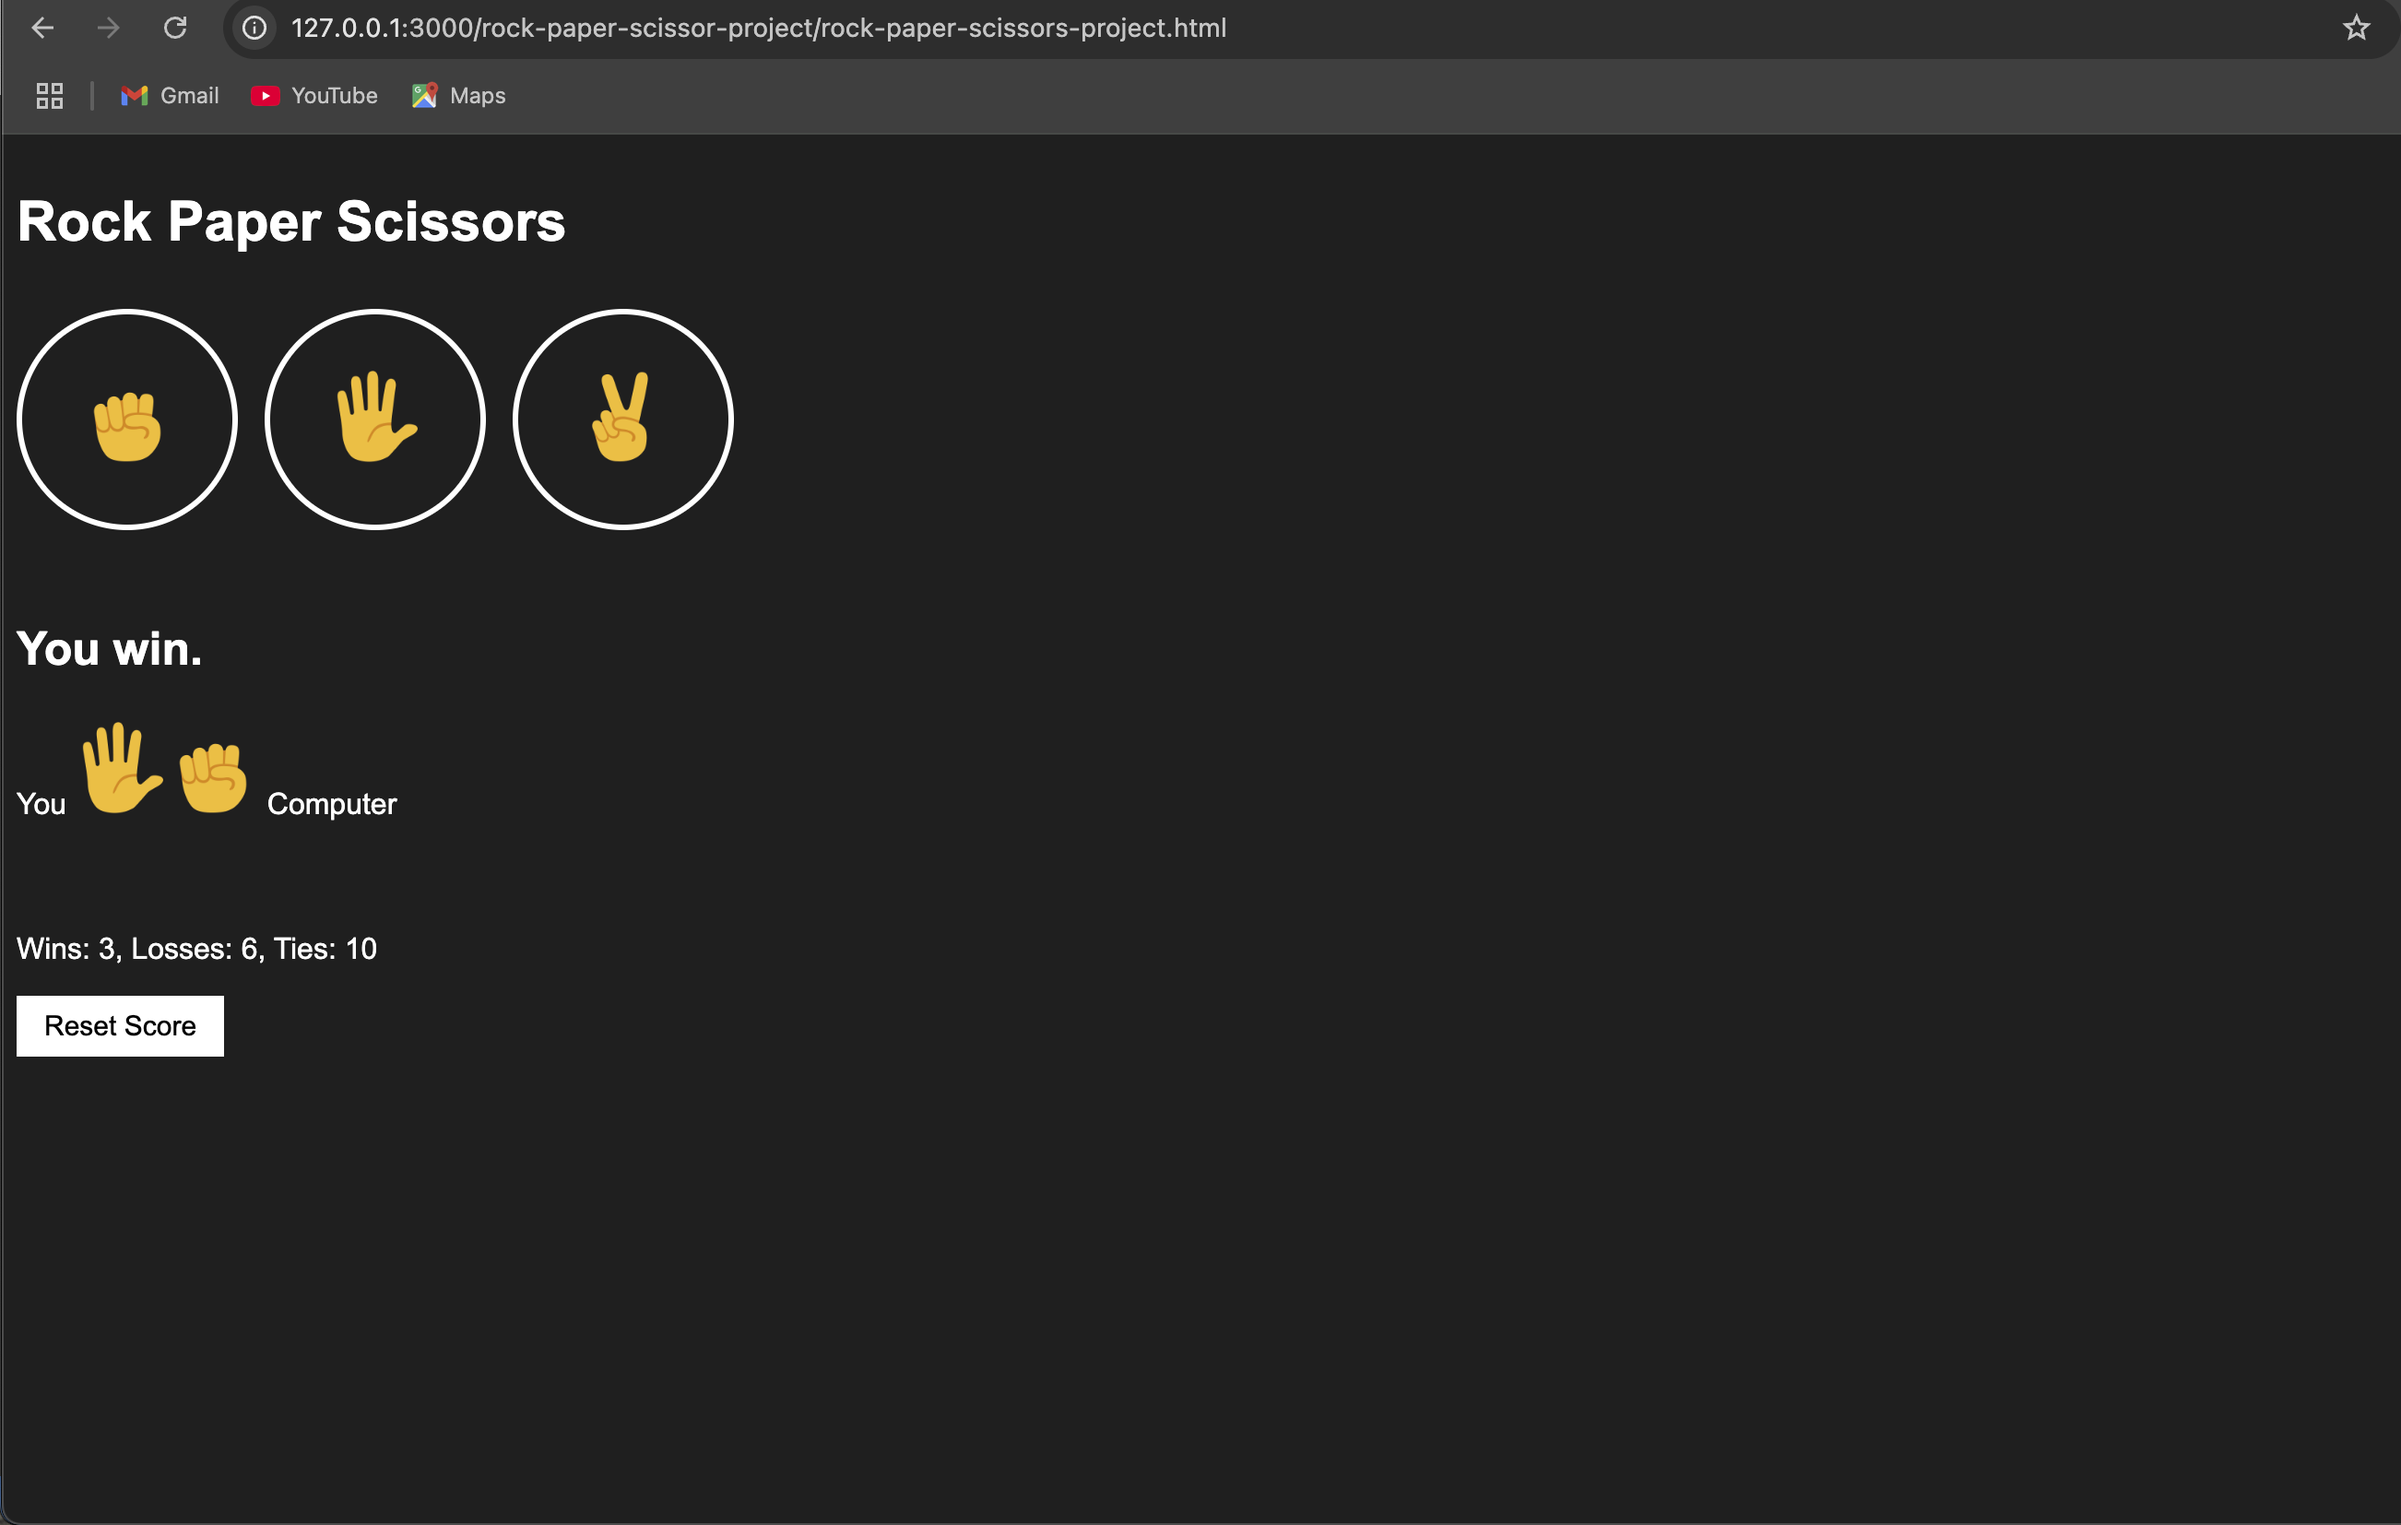
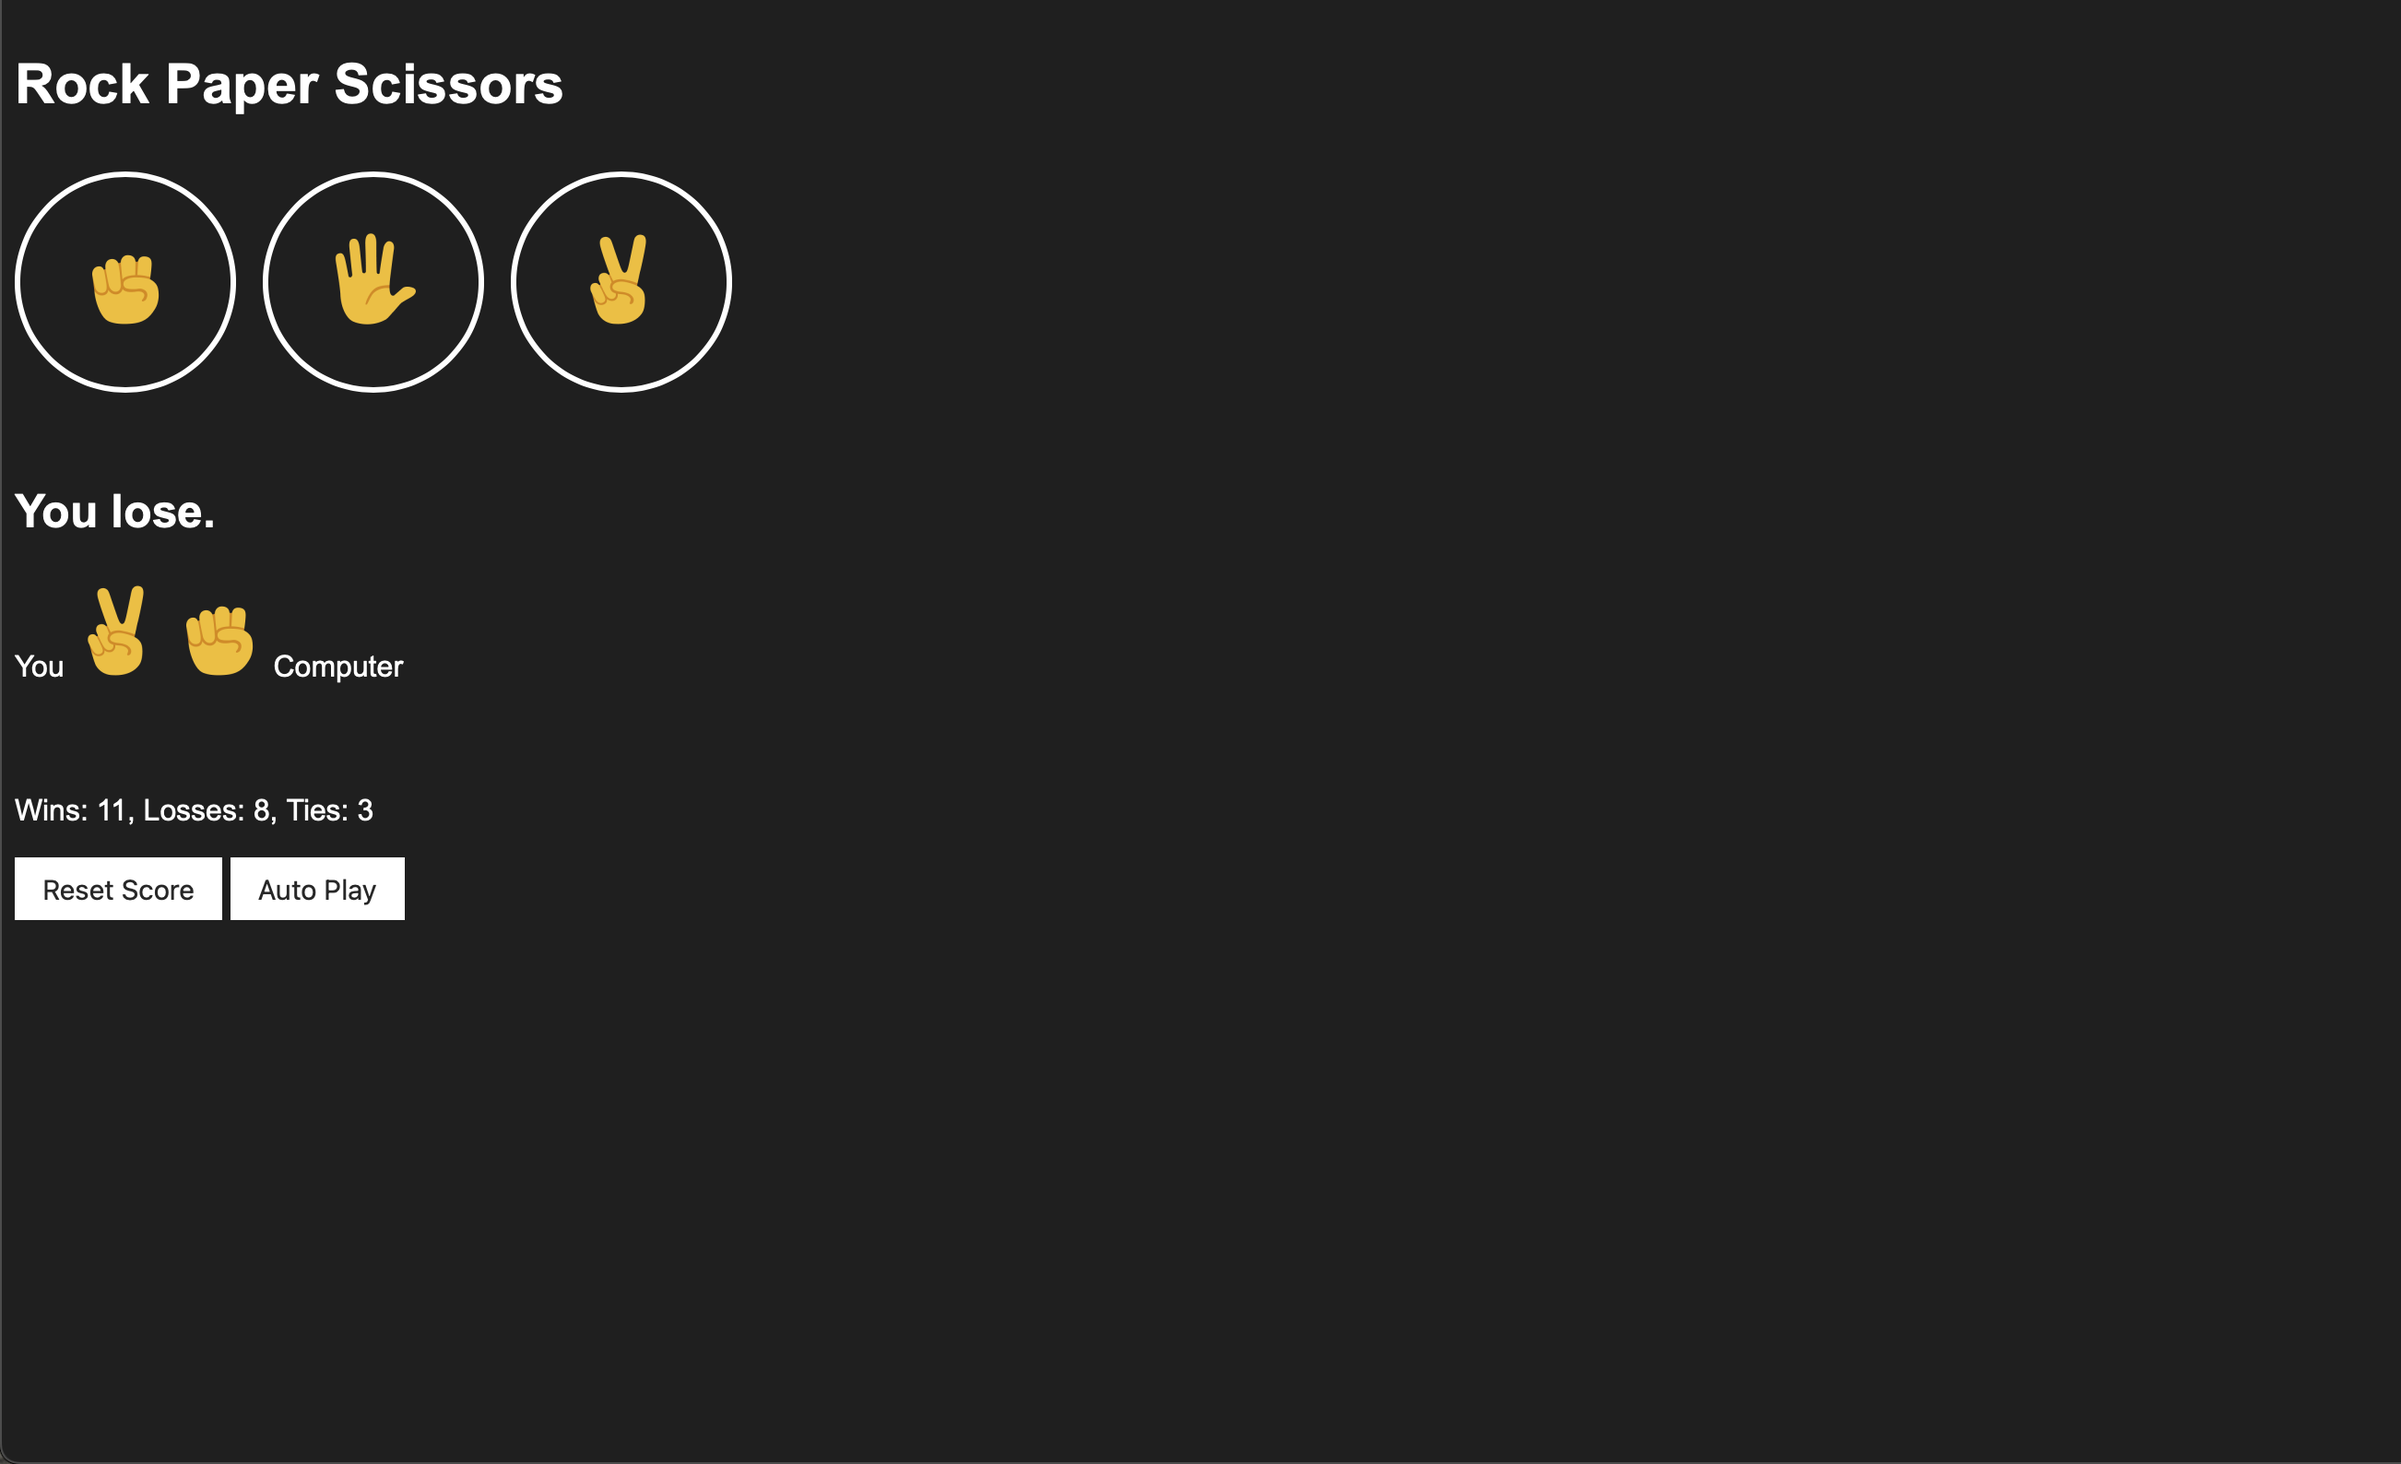
Initial commit

diff --git a/js/rock-paper-scissor.js b/js/rock-paper-scissor.js
@@ -1,70 +1,136 @@
 let score = JSON.parse(localStorage.getItem('score')) || {
+  wins: 0,
+  losses: 0,
+  ties: 0
+};
+
+updateScoreElement();
+
+/*
+if (!score) {
+  score = {
     wins: 0,
     losses: 0,
     ties: 0
+  };
+}
+*/
+
+let isAutoPlaying = false;
+let intervalId;
+
+//const autoPlay = () => {
+
+//};
+function autoPlay() {
+  if (!isAutoPlaying) {
+    intervalId = setInterval(() => {
+      const playerMove = pickComputerMove();
+      playGame(playerMove);
+    }, 1000);
+    isAutoPlaying = true;
+
+  } else {
+    clearInterval(intervalId);
+    isAutoPlaying = false;
+  }
 }
 
-updateScoreElement()
+document.querySelector('.js-rock-button')
+  .addEventListener('click', () => {
+    playGame('rock');
+  });
+
+document.querySelector('.js-paper-button')
+  .addEventListener('click', () => {
+    playGame('paper');
+  });
+
+document.querySelector('.js-scissors-button')
+  .addEventListener('click', () => {
+    playGame('scissors');
+  });
+
+document.body.addEventListener('keydown', (event) => {
+  if (event.key === 'r') {
+    playGame('rock');
+  } else if (event.key === 'p') {
+    playGame('paper');
+  } else if (event.key === 's') {
+    playGame('scissors');
+  }
+});
 
 function playGame(playerMove) {
-    const computerMove = pickComputerMove()
-    let result = ''
+  const computerMove = pickComputerMove();
 
-    if (playerMove === 'scissors') {
-        if (computerMove === 'rock') {
-            result = 'You lose.'
-        } else if (computerMove === 'paper') {
-            result = 'You win.'
-        } else if (computerMove === 'scissors') {
-            result = 'Tie.'
-        }
-    } else if (playerMove === 'paper') {
-        if (computerMove === 'rock') {
-            result = 'You win.'
-        } else if (computerMove === 'paper') {
-            result = 'Tie.'
-        } else if (computerMove === 'scissors') {
-            result = 'You lose.'
-        }
-    } else if (playerMove === 'rock') {
-        if (computerMove === 'rock') {
-            result = 'Tie.'
-        } else if (computerMove === 'paper') {
-            result = 'You lose.'
-        } else if (computerMove === 'scissors') {
-            result = 'You win.'
-        }
+  let result = '';
+
+  if (playerMove === 'scissors') {
+    if (computerMove === 'rock') {
+      result = 'You lose.';
+    } else if (computerMove === 'paper') {
+      result = 'You win.';
+    } else if (computerMove === 'scissors') {
+      result = 'Tie.';
     }
 
-    if (result === 'You win.') {
-        score.wins += 1
-    } else if (result === 'You lose.') {
-        score.losses += 1
-    } else if (result === 'Tie.') {
-        score.ties += 1
+  } else if (playerMove === 'paper') {
+    if (computerMove === 'rock') {
+      result = 'You win.';
+    } else if (computerMove === 'paper') {
+      result = 'Tie.';
+    } else if (computerMove === 'scissors') {
+      result = 'You lose.';
     }
+    
+  } else if (playerMove === 'rock') {
+    if (computerMove === 'rock') {
+      result = 'Tie.';
+    } else if (computerMove === 'paper') {
+      result = 'You lose.';
+    } else if (computerMove === 'scissors') {
+      result = 'You win.';
+    }
+  }
 
-    localStorage.setItem('score', JSON.stringify(score))
+  if (result === 'You win.') {
+    score.wins += 1;
+  } else if (result === 'You lose.') {
+    score.losses += 1;
+  } else if (result === 'Tie.') {
+    score.ties += 1;
+  }
 
-    updateScoreElement()
+  localStorage.setItem('score', JSON.stringify(score));
 
-    document.querySelector('.js-result').innerHTML = result
+  updateScoreElement();
 
-    document.querySelector('.js-moves').innerHTML = `You <img class="move-icon" src="rock-paper-image/${playerMove}-emoji.png"><img class="move-icon" src="rock-paper-image/${computerMove}-emoji.png"> Computer`
+  document.querySelector('.js-result').innerHTML = result;
+
+  document.querySelector('.js-moves').innerHTML = `You
+<img src="rock-paper-image/${playerMove}-emoji.png" class="move-icon">
+<img src="rock-paper-image/${computerMove}-emoji.png" class="move-icon">
+Computer`;
 }
 
 function updateScoreElement() {
-    document.querySelector('.js-score').innerHTML = `Wins: ${score.wins}, Losses: ${score.losses}, Ties: ${score.ties}`
+  document.querySelector('.js-score')
+    .innerHTML = `Wins: ${score.wins}, Losses: ${score.losses}, Ties: ${score.ties}`;
 }
 
 function pickComputerMove() {
-    const randomNumber = Math.random()
+  const randomNumber = Math.random();
 
-    if (randomNumber >= 0 && randomNumber < 1 / 3) {
-        return 'rock'
-    } else if (randomNumber >= 1 / 3 && randomNumber < 2 / 3) {
-        return 'paper'
-    } else if (randomNumber >= 2 / 3 && randomNumber < 1) {
-        return 'scissors'
-    }
+  let computerMove = '';
+
+  if (randomNumber >= 0 && randomNumber < 1 / 3) {
+    computerMove = 'rock';
+  } else if (randomNumber >= 1 / 3 && randomNumber < 2 / 3) {
+    computerMove = 'paper';
+  } else if (randomNumber >= 2 / 3 && randomNumber < 1) {
+    computerMove = 'scissors';
+  }
+
+  return computerMove;
 }

diff --git a/rock-paper-scissors-project.html b/rock-paper-scissors-project.html
@@ -1,30 +1,39 @@
 <!DOCTYPE html>
 <html>
-
-<head>
+  <head>
     <title>Rock Paper Scissors</title>
     <link rel="stylesheet" href="styles/rock-paper-scissor.css">
-</head>
-
-<body>
+  </head>
+  <body>
     <p class="title">Rock Paper Scissors</p>
-    <button class="move-button" onclick="playGame('rock')"><img class="move-icon" src="rock-paper-image/rock-emoji.png"></button>
+    <button class="move-button js-rock-button">
+      <img src="rock-paper-image/rock-emoji.png" class="move-icon">
+    </button>
 
-    <button class="move-button" onclick="playGame('paper')"><img class="move-icon"
-            src="rock-paper-image/paper-emoji.png"></button>
+    <button class="move-button js-paper-button">
+      <img src="rock-paper-image/paper-emoji.png" class="move-icon">
+    </button>
 
-    <button class="move-button" onclick="playGame('scissors')"><img class="move-icon"
-            src="rock-paper-image/scissors-emoji.png"></button>
+    <button class="move-button js-scissors-button">
+      <img src="rock-paper-image/scissors-emoji.png" class="move-icon">
+    </button>
 
     <p class="js-result result"></p>
     <p class="js-moves"></p>
     <p class="js-score score"></p>
 
-    <button class="reset-score-button"
-        onclick="score.wins = 0; score.losses = 0; score.ties = 0; localStorage.removeItem('score'); updateScoreElement()">Reset
-        Score</button>
+    <button onclick="
+      score.wins = 0;
+      score.losses = 0;
+      score.ties = 0;
+      localStorage.removeItem('score');
+      updateScoreElement();
+    " class="reset-score-button js-reset-score-button">Reset Score</button>
 
+    <button class="auto-play-button" onclick="
+      autoPlay();
+    ">Auto Play</button>
+    
     <script src="js/rock-paper-scissor.js"></script>
-</body>
-
+  </body>
 </html>

diff --git a/styles/rock-paper-scissor.css b/styles/rock-paper-scissor.css
@@ -1,42 +1,43 @@
 body {
-    background-color: rgb(25, 25, 25);
-    color: white;
-    font-family: Arial;
+  background-color: rgb(25, 25, 25);
+  color: white;
+  font-family: Arial;
 }
 
 .title {
-    font-size: 30px;
-    font-weight: bold;
+  font-size: 30px;
+  font-weight: bold;
 }
 
 .move-icon {
-    height: 50px;
+  height: 50px;
 }
 
 .move-button {
-    background-color: transparent;
-    border: 3px solid white;
-    width: 120px;
-    height: 120px;
-    border-radius: 60px;
-    margin-right: 10px;
-    cursor: pointer;
+  background-color: transparent;
+  border: 3px solid white;
+  width: 120px;
+  height: 120px;
+  border-radius: 60px;
+  margin-right: 10px;
+  cursor: pointer;
 }
 
 .result {
-    font-size: 25px;
-    font-weight: bold;
-    margin-top: 50px;
+  font-size: 25px;
+  font-weight: bold;
+  margin-top: 50px;
 }
 
 .score {
-    margin-top: 60px;
+  margin-top: 60px;
 }
 
-.reset-score-button {
-    background-color: white;
-    border: none;
-    font-size: 15px;
-    padding: 8px 15px;
-    cursor: pointer;
+.reset-score-button,
+.auto-play-button {
+  background-color: white;
+  border: none;
+  font-size: 15px;
+  padding: 8px 15px;
+  cursor: pointer;
 }
